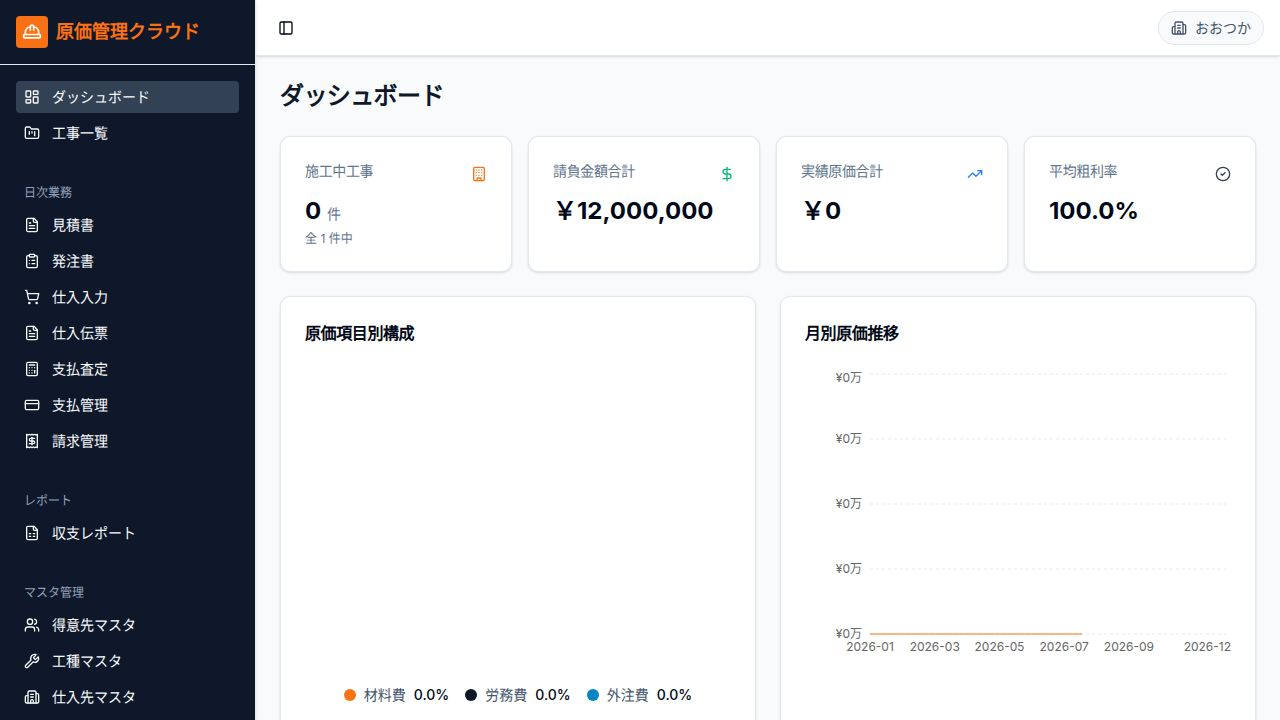
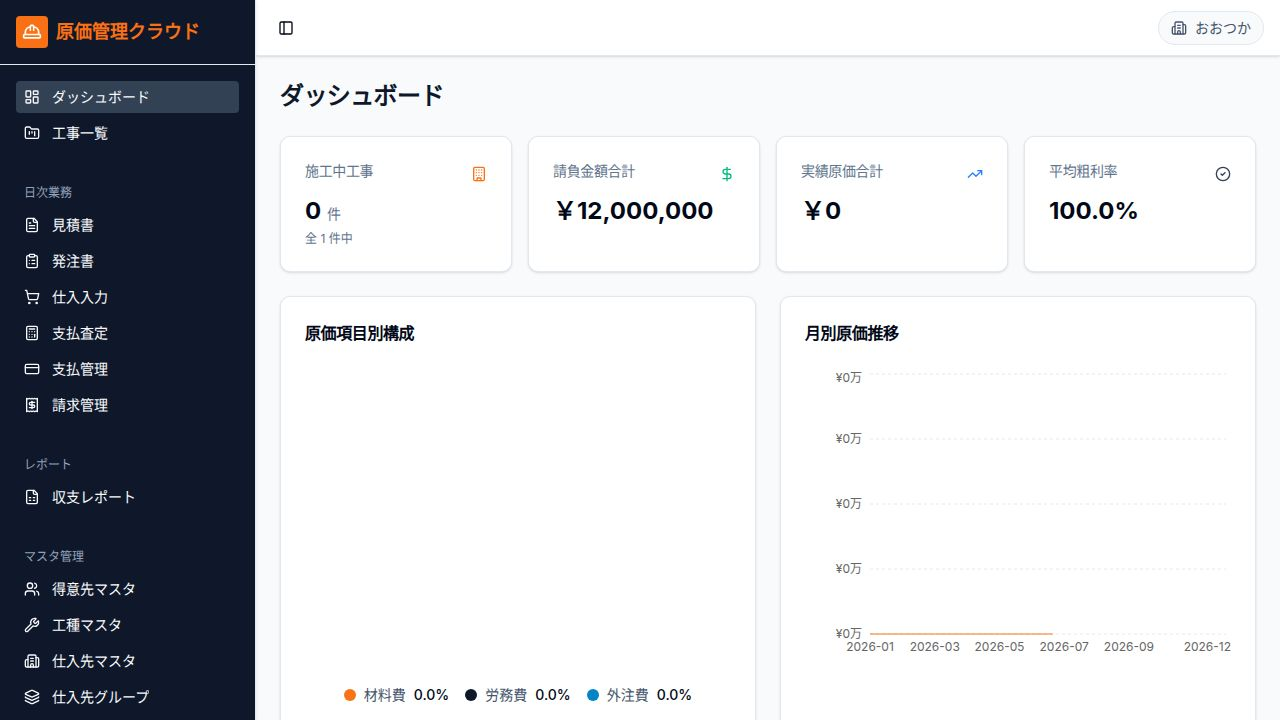
Add a purchase invoice list and redirect old invoice URL
Adds a purchase invoice list to the purchases page, implements a redirect from /purchase-invoices to /purchases, and removes the old invoice link from the layout.

Replit-Commit-Author: Agent
Replit-Commit-Session-Id: 58ff94fb-dfb4-4fe5-b0fd-a8043fd77495
Replit-Commit-Checkpoint-Type: full_checkpoint
Replit-Commit-Event-Id: 1b335652-87d7-4ac0-92b0-ec431797bba6
Replit-Commit-Screenshot-Url: https://storage.googleapis.com/screenshot-production-us-central1/f9b119cb-f822-4466-bbcb-08ad4ebd6bed/58ff94fb-dfb4-4fe5-b0fd-a8043fd77495/Vh1jVZx
Replit-Helium-Checkpoint-Created: true

diff --git a/artifacts/genka-kanri/src/pages/purchases.tsx b/artifacts/genka-kanri/src/pages/purchases.tsx
@@ -13,7 +13,7 @@ import { Checkbox } from "@/components/ui/checkbox";
 import { Dialog, DialogContent, DialogHeader, DialogTitle } from "@/components/ui/dialog";
 import { Table, TableBody, TableCell, TableHead, TableHeader, TableRow } from "@/components/ui/table";
 import { useToast } from "@/hooks/use-toast";
-import { Plus, Trash2, Save, FileText, ExternalLink, ClipboardList } from "lucide-react";
+import { Plus, Trash2, Save, FileText, ExternalLink, ClipboardList, Pencil } from "lucide-react";
 import { Badge } from "@/components/ui/badge";
 
 interface WorkTypeItem {
@@ -61,6 +61,52 @@ interface AvailablePurchaseOrder {
     taxRate: number;
     deliveredQuantity: number;
   }>;
+}
+
+// ── 仕入伝票一覧用 ─────────────────────────────────────────────────────────────
+interface PurchaseInvoiceSummary {
+  id: number;
+  voucherNumber: string;
+  projectId: number;
+  vendorId: number;
+  purchaseDate: string;
+  paymentDueDate: string | null;
+  status: string;
+  isProvisional: boolean;
+  totalAmount: number;
+  vendorName: string;
+  projectCode: string;
+  projectName: string;
+}
+
+const INVOICE_STATUS_LABELS: Record<string, string> = {
+  provisional: "仮確定",
+  confirmed:   "確定",
+  assessed:    "査定済",
+  paid:        "支払済",
+  cancelled:   "キャンセル",
+};
+
+const INVOICE_STATUS_COLORS: Record<string, string> = {
+  provisional: "bg-amber-100 text-amber-700 border-amber-200",
+  confirmed:   "bg-blue-100 text-blue-700 border-blue-200",
+  assessed:    "bg-purple-100 text-purple-700 border-purple-200",
+  paid:        "bg-emerald-100 text-emerald-700 border-emerald-200",
+  cancelled:   "bg-red-100 text-red-700 border-red-200",
+};
+
+function usePurchaseInvoiceList(projectId: string, status: string) {
+  const params = new URLSearchParams();
+  if (projectId !== "__all__") params.set("projectId", projectId);
+  if (status !== "__all__") params.set("status", status);
+  return useQuery({
+    queryKey: ["/api/purchase-invoices", projectId, status],
+    queryFn: async () => {
+      const res = await fetch(`/api/purchase-invoices?${params.toString()}`);
+      if (!res.ok) throw new Error("Failed");
+      return res.json() as Promise<{ items: PurchaseInvoiceSummary[]; total: number }>;
+    },
+  });
 }
 
 const CATEGORY_OPTIONS = [
@@ -193,6 +239,13 @@ export default function Purchases() {
   useEffect(() => {
     setEditInitialized(false);
   }, [editInvoiceIdNum]);
+
+  // ── 仕入伝票一覧フィルター ────────────────────────────────────────────────
+  const [filterInvoiceProject, setFilterInvoiceProject] = useState("__all__");
+  const [filterInvoiceStatus, setFilterInvoiceStatus] = useState("__all__");
+  const { data: invoiceListData, isLoading: invoiceListLoading } =
+    usePurchaseInvoiceList(filterInvoiceProject, filterInvoiceStatus);
+  const invoiceList = invoiceListData?.items ?? [];
 
   // ── 発注書取込モーダル状態 ──────────────────────────────────────────────
   const [importPOOpen, setImportPOOpen] = useState(false);
@@ -895,6 +948,113 @@ export default function Purchases() {
             </span>
           )}
         </Button>
+      </div>
+
+      {/* ── 仕入伝票一覧 ── */}
+      <div className="mt-8 space-y-3">
+        <div className="flex items-center justify-between">
+          <div className="flex items-center gap-2">
+            <FileText className="w-4 h-4 text-teal-700" />
+            <h2 className="text-base font-bold text-slate-800">仕入伝票一覧</h2>
+            {invoiceListData && (
+              <span className="text-xs text-slate-500">{invoiceListData.total}件</span>
+            )}
+          </div>
+        </div>
+
+        {/* フィルター */}
+        <div className="flex flex-wrap gap-3">
+          <div className="space-y-1">
+            <Label className="text-xs text-slate-500">工事</Label>
+            <Select value={filterInvoiceProject} onValueChange={setFilterInvoiceProject}>
+              <SelectTrigger className="w-56 text-sm h-8">
+                <SelectValue placeholder="すべての工事" />
+              </SelectTrigger>
+              <SelectContent>
+                <SelectItem value="__all__">すべての工事</SelectItem>
+                {projects.map((p) => (
+                  <SelectItem key={p.id} value={String(p.id)}>
+                    {p.projectCode} {p.name}
+                  </SelectItem>
+                ))}
+              </SelectContent>
+            </Select>
+          </div>
+          <div className="space-y-1">
+            <Label className="text-xs text-slate-500">ステータス</Label>
+            <Select value={filterInvoiceStatus} onValueChange={setFilterInvoiceStatus}>
+              <SelectTrigger className="w-36 text-sm h-8">
+                <SelectValue placeholder="すべて" />
+              </SelectTrigger>
+              <SelectContent>
+                <SelectItem value="__all__">すべて</SelectItem>
+                {Object.entries(INVOICE_STATUS_LABELS).map(([k, v]) => (
+                  <SelectItem key={k} value={k}>{v}</SelectItem>
+                ))}
+              </SelectContent>
+            </Select>
+          </div>
+        </div>
+
+        {/* テーブル */}
+        <div className="border rounded-lg overflow-hidden">
+          <Table>
+            <TableHeader>
+              <TableRow className="bg-slate-50 text-xs">
+                <TableHead className="font-medium">伝票番号</TableHead>
+                <TableHead className="font-medium">工事</TableHead>
+                <TableHead className="font-medium">仕入先</TableHead>
+                <TableHead className="font-medium">仕入日</TableHead>
+                <TableHead className="font-medium">支払予定日</TableHead>
+                <TableHead className="font-medium">状態</TableHead>
+                <TableHead className="font-medium text-right">合計金額</TableHead>
+              </TableRow>
+            </TableHeader>
+            <TableBody>
+              {invoiceListLoading ? (
+                <TableRow>
+                  <TableCell colSpan={7} className="text-center py-8 text-slate-400">読み込み中...</TableCell>
+                </TableRow>
+              ) : invoiceList.length === 0 ? (
+                <TableRow>
+                  <TableCell colSpan={7} className="text-center py-8 text-slate-400">
+                    仕入伝票がありません。上のフォームから登録してください。
+                  </TableCell>
+                </TableRow>
+              ) : invoiceList.map((inv) => (
+                <TableRow key={inv.id} className="hover:bg-slate-50/60">
+                  <TableCell className="font-mono text-sm font-medium">
+                    <Link
+                      href={`/purchases?id=${inv.id}`}
+                      className="text-teal-700 hover:text-teal-900 hover:underline flex items-center gap-1"
+                    >
+                      {inv.voucherNumber}
+                      <Pencil className="w-3 h-3 opacity-50" />
+                    </Link>
+                    {inv.isProvisional && (
+                      <Badge variant="outline" className="mt-1 text-[10px] text-amber-600 border-amber-400 bg-amber-50">仮</Badge>
+                    )}
+                  </TableCell>
+                  <TableCell className="text-sm">
+                    <div className="font-medium">{inv.projectCode}</div>
+                    <div className="text-xs text-slate-500 truncate max-w-[160px]">{inv.projectName}</div>
+                  </TableCell>
+                  <TableCell className="text-sm">{inv.vendorName}</TableCell>
+                  <TableCell className="text-sm text-slate-600">{inv.purchaseDate}</TableCell>
+                  <TableCell className="text-sm text-slate-500">{inv.paymentDueDate ?? "—"}</TableCell>
+                  <TableCell>
+                    <Badge variant="outline" className={`text-xs ${INVOICE_STATUS_COLORS[inv.status] ?? ""}`}>
+                      {INVOICE_STATUS_LABELS[inv.status] ?? inv.status}
+                    </Badge>
+                  </TableCell>
+                  <TableCell className="text-right font-medium text-sm">
+                    {inv.totalAmount.toLocaleString("ja-JP", { style: "currency", currency: "JPY" })}
+                  </TableCell>
+                </TableRow>
+              ))}
+            </TableBody>
+          </Table>
+        </div>
       </div>
 
       {/* ── 発注書取込モーダル ── */}

diff --git a/artifacts/genka-kanri/src/App.tsx b/artifacts/genka-kanri/src/App.tsx
@@ -34,7 +34,7 @@ import ProjectLedger from "@/pages/projects/ledger";
 import PurchaseOrders from "@/pages/purchase-orders/index";
 import PurchaseOrderDetail from "@/pages/purchase-orders/detail";
 import PurchaseOrderPrint from "@/pages/purchase-orders/print";
-import PurchaseInvoices from "@/pages/purchase-invoices";
+import { Redirect } from "wouter";
 
 const queryClient = new QueryClient();
 
@@ -105,7 +105,7 @@ function Router() {
         <Route path="/purchase-orders/:id">
           {(params) => <PurchaseOrderDetail id={parseInt(params.id)} />}
         </Route>
-        <Route path="/purchase-invoices" component={PurchaseInvoices} />
+        <Route path="/purchase-invoices"><Redirect to="/purchases" /></Route>
         <Route component={NotFound} />
       </Switch>
     </AppLayout>

diff --git a/artifacts/genka-kanri/src/components/layout.tsx b/artifacts/genka-kanri/src/components/layout.tsx
@@ -29,7 +29,6 @@ export function AppLayout({ children }: { children: React.ReactNode }) {
     { title: "見積書", icon: FileText, url: "/estimates" },
     { title: "発注書", icon: ClipboardList, url: "/purchase-orders" },
     { title: "仕入入力", icon: ShoppingCart, url: "/purchases" },
-    { title: "仕入伝票", icon: FileText, url: "/purchase-invoices" },
     { title: "支払査定", icon: Calculator, url: "/payment-assessment" },
     { title: "支払管理", icon: CreditCard, url: "/payments" },
     { title: "請求管理", icon: Receipt, url: "/invoices" },